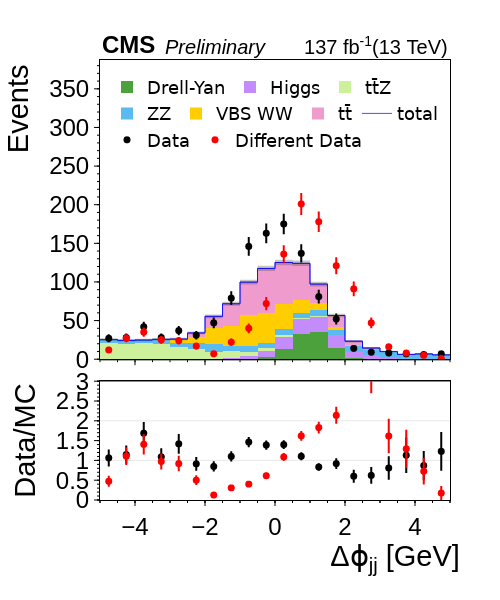
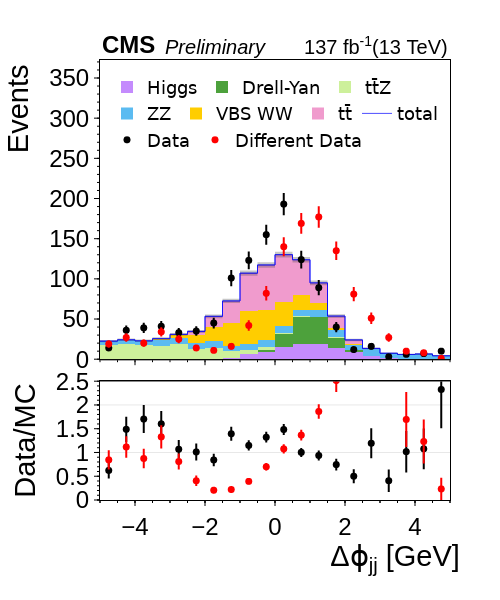
update

diff --git a/examples/example2/plot.html b/examples/example2/plot.html
@@ -9,7 +9,7 @@ window.PlotlyConfig = {MathJaxConfig: 'local'};
 <script src="https://cdn.plot.ly/plotly-2.3.0.min.js"></script>
 
     <div
-        id=fb561e72-df96-4e54-846e-26ceda32d834
+        id=6390c735-6d9c-46e0-8289-a98f86f4c5ef
         class="plotly-graph-div"
         style="height:600; width:500;">
     </div>
@@ -17,11 +17,11 @@ window.PlotlyConfig = {MathJaxConfig: 'local'};
         
         window.PLOTLYENV = window.PLOTLYENV || {}
         
-        if (document.getElementById('fb561e72-df96-4e54-846e-26ceda32d834')) {
+        if (document.getElementById('6390c735-6d9c-46e0-8289-a98f86f4c5ef')) {
     Plotly.newPlot(
-        'fb561e72-df96-4e54-846e-26ceda32d834',
-        [{"showlegend":false,"xaxis":"x","type":"scatter","name":"Data/MC","yaxis":"y"},{"showlegend":false,"xaxis":"x2","type":"scatter","name":"ratiopanel_minorticks","yaxis":"y2"},{"showlegend":false,"xaxis":"x3","type":"scatter","name":"ratiopanel_unityline","yaxis":"y3"},{"showlegend":false,"xaxis":"x4","type":"scatter","name":"mainpanel_majorticks","yaxis":"y4"},{"showlegend":false,"xaxis":"x5","type":"scatter","name":"mainpanel_minorticks","yaxis":"y5"},{"showlegend":false,"mode":"markers","xaxis":"x","name":"Data/MC","opacity":1,"error_y":{"array":[0.2151713611163748,0.22897007594166235,0.28136632556183927,0.216821208476119,0.2490280300390186,0.17106037752205802,0.1286493806981723,0.1304235568715328,0.12962645022452718,0.11594847980745544,0.1128040045976827,0.09938645958156812,0.09627057249957732,0.13312856862683686,0.16534025874485572,0.21322082126061137,0.2970189034761727,0.4501798282334663,0.3701115351124994,0.49184325898278064],"width":0},"yaxis":"y","marker":{"color":"black","size":7},"y":[1.0629921259842519,1.147540983606557,1.686746987951807,1.0894941634241246,1.417624521072797,0.9117647058823529,0.8468468468468469,1.1002785515320332,1.4629258517034067,1.3872340425531915,1.3977635782747606,1.1039484286865429,0.8324768756423433,0.9187279151943463,0.6008583690987124,0.6206896551724139,0.8080808080808081,1.129032258064516,0.8695652173913043,1.2280701754385965],"type":"scatter","x":[-4.75,-4.25,-3.75,-3.25,-2.75,-2.25,-1.75,-1.25,-0.75,-0.25,0.25,0.75,1.25,1.75,2.25,2.75,3.25,3.75,4.25,4.75]},{"showlegend":false,"mode":"markers","xaxis":"x","name":"Data/MC","opacity":1,"error_y":{"array":[0.13956639679750474,0.224430454005735,0.2537430592073422,0.2037956329690082,0.19614050532324623,0.1242625304369271,0.04797088195176685,0.0663193916729784,0.06462980721895491,0.07439481618336331,0.09807485934014162,0.12314675904925948,0.14913459617234193,0.21411466163865028,0.48279117138693267,0.5440609305189099,0.4354678725137126,0.48473734438510363,0.33560407531836417,0.17697084039969282],"width":0},"yaxis":"y","marker":{"color":"red","size":7},"y":[0.4724409448818897,1.1065573770491801,1.4056224899598393,0.9727626459143969,0.9195402298850575,0.5,0.12612612612612611,0.3064066852367687,0.4008016032064128,0.6127659574468085,1.086261980830671,1.619661563255439,1.8293936279547791,2.137809187279152,3.9055793991416308,3.241379310344828,1.6161616161616161,1.2903225806451613,0.7246376811594203,0.17543859649122806],"type":"scatter","x":[-4.75,-4.25,-3.75,-3.25,-2.75,-2.25,-1.75,-1.25,-0.75,-0.25,0.25,0.75,1.25,1.75,2.25,2.75,3.25,3.75,4.25,4.75]},{"x":[-4.75,-4.25,-3.75,-3.25,-2.75,-2.25,-1.75,-1.25,-0.75,-0.25,0.25,0.75,1.25,1.75,2.25,2.75,3.25,3.75,4.25,4.75],"xaxis":"x4","y":[0.0,0.0,0.0,0.0,0.0,0.0,0.0,0.0,0.1,3.1,13.700000000000001,32.1,34.6,14.9,1.4000000000000001,0.1,0.0,0.0,0.0,0.0,0.0],"type":"bar","name":"Drell-Yan","opacity":1.0,"yaxis":"y4","legendgroup":1,"marker":{"color":"rgba(77 , 161 , 60 , 1)"}},{"x":[-4.75,-4.25,-3.75,-3.25,-2.75,-2.25,-1.75,-1.25,-0.75,-0.25,0.25,0.75,1.25,1.75,2.25,2.75,3.25,3.75,4.25,4.75],"xaxis":"x4","y":[0.0,0.0,0.0,0.1,0.0,0.1,0.2,1.6,4.6000000000000005,7.7,15.200000000000001,19.400000000000002,20.1,16.0,7.7,5.2,1.6,0.30000000000000004,0.2,0.0,0.0],"type":"bar","name":"Higgs","opacity":1.0,"yaxis":"y4","legendgroup":2,"marker":{"color":"rgba(196 , 139 , 253 , 1)"}},{"x":[-4.75,-4.25,-3.75,-3.25,-2.75,-2.25,-1.75,-1.25,-0.75,-0.25,0.25,0.75,1.25,1.75,2.25,2.75,3.25,3.75,4.25,4.75],"xaxis":"x4","y":[20.8,19.400000000000002,20.700000000000003,19.1,16.1,13.5,9.1,8.4,4.9,3.8000000000000003,2.1,1.2000000000000002,0.6000000000000001,0.1,0.1,0.1,0.0,0.1,0.0,0.0,0.0],"type":"bar","name":"tt̄Z","opacity":1.0,"yaxis":"y4","legendgroup":3,"marker":{"color":"rgba(205 , 240 , 155 , 1)"}},{"x":[-4.75,-4.25,-3.75,-3.25,-2.75,-2.25,-1.75,-1.25,-0.75,-0.25,0.25,0.75,1.25,1.75,2.25,2.75,3.25,3.75,4.25,4.75],"xaxis":"x4","y":[4.6000000000000005,4.9,3.6,5.2,5.300000000000001,7.5,11.0,6.800000000000001,7.9,6.2,8.1,7.2,8.9,6.2,8.4,7.0,7.9,5.6000000000000005,6.7,5.7,5.7],"type":"bar","name":"ZZ","opacity":1.0,"yaxis":"y4","legendgroup":4,"marker":{"color":"rgba(91 , 187 , 241 , 1)"}},{"x":[-4.75,-4.25,-3.75,-3.25,-2.75,-2.25,-1.75,-1.25,-0.75,-0.25,0.25,0.75,1.25,1.75,2.25,2.75,3.25,3.75,4.25,4.75],"xaxis":"x4","y":[0.0,0.1,0.2,1.0,3.2,7.9,19.900000000000002,26.700000000000003,39.5,38.6,32.4,17.0,8.1,4.4,0.8,0.1,0.1,0.0,0.0,0.0,0.0],"type":"bar","name":"VBS WW","opacity":1.0,"yaxis":"y4","legendgroup":5,"marker":{"color":"rgba(255, 205, 0, 1)"}},{"x":[-4.75,-4.25,-3.75,-3.25,-2.75,-2.25,-1.75,-1.25,-0.75,-0.25,0.25,0.75,1.25,1.75,2.25,2.75,3.25,3.75,4.25,4.75],"xaxis":"x4","y":[0.0,0.0,0.4,0.30000000000000004,1.5,5.0,15.3,28.3,42.800000000000004,58.1,53.7,47.2,25.0,15.0,4.9,2.0,0.30000000000000004,0.2,0.0,0.0,0.0],"type":"bar","name":"tt̄","opacity":1.0,"yaxis":"y4","legendgroup":6,"marker":{"color":"rgba(240 , 155 , 205 , 1)"}},{"showlegend":false,"mode":"lines","xaxis":"x4","fillcolor":"blue","name":"total","fill":"","opacity":0.7,"yaxis":"y4","marker":{"size":0},"line":{"color":"blue","shape":"hv","width":1},"y":[25.400000000000002,24.400000000000006,24.900000000000002,25.7,26.1,34.0,55.5,71.80000000000001,99.80000000000001,117.5,125.19999999999999,124.10000000000002,97.3,56.6,23.3,14.499999999999998,9.9,6.2,6.9,5.7,5.7],"type":"scatter","x":[-5.0,-4.5,-4.0,-3.5,-3.0,-2.5,-2.0,-1.5,-1.0,-0.5,0.0,0.5,1.0,1.5,2.0,2.5,3.0,3.5,4.0,4.5,5.0]},{"showlegend":false,"mode":"lines","line":{"shape":"hv","width":0},"xaxis":"x4","x":[-5.0,-4.5,-4.0,-3.5,-3.0,-2.5,-2.0,-1.5,-1.0,-0.5,0.0,0.5,1.0,1.5,2.0,2.5,3.0,3.5,4.0,4.5,5.0],"y":[26.993737745050925,25.962049935181337,26.477973383805953,27.30312195418814,27.715549442140354,35.843908891458575,57.85584379787795,74.47955220139487,102.95911379978628,120.92782730020052,128.73836120259082,127.62278299076173,100.41929479209644,58.97907545067407,24.826433752247375,15.704159457879229,10.89498743710662,6.987400787401182,7.730662386291808,6.454983443527075,6.454983443527075],"type":"scatter","name":"total +1σ","yaxis":"y4","marker":{"color":"#444"}},{"showlegend":false,"mode":"lines","xaxis":"x4","fillcolor":"rgba(68, 68, 68, 0.3)","name":"total -1σ","fill":"tonexty","yaxis":"y4","marker":{"color":"#444"},"line":{"shape":"hv","width":0},"y":[23.80626225494908,22.837950064818674,23.32202661619405,24.09687804581186,24.48445055785965,32.156091108541425,53.14415620212205,69.12044779860516,96.64088620021374,114.07217269979948,121.66163879740917,120.57721700923831,94.18070520790356,54.220924549325936,21.773566247752626,13.295840542120768,8.905012562893381,5.412599212598819,6.069337613708193,4.945016556472925,4.945016556472925],"type":"scatter","x":[-5.0,-4.5,-4.0,-3.5,-3.0,-2.5,-2.0,-1.5,-1.0,-0.5,0.0,0.5,1.0,1.5,2.0,2.5,3.0,3.5,4.0,4.5,5.0]},{"showlegend":true,"mode":"lines","xaxis":"x4","fillcolor":"blue","name":"total","fill":"","opacity":0.7,"yaxis":"y4","legendgroup":-100,"marker":{"size":0},"line":{"color":"blue","width":1,"shape":"hv"},"y":[25.400000000000002,24.400000000000006,24.900000000000002,25.7,26.1,34.0,55.5,71.80000000000001,99.80000000000001,117.5,125.19999999999999,124.10000000000002,97.3,56.6,23.3,14.499999999999998,9.9,6.2,6.9,5.7,5.7],"type":"scatter","x":[-5.0,-4.5,-4.0,-3.5,-3.0,-2.5,-2.0,-1.5,-1.0,-0.5,0.0,0.5,1.0,1.5,2.0,2.5,3.0,3.5,4.0,4.5,5.0]},{"mode":"markers","xaxis":"x4","name":"Data","opacity":1,"error_y":{"array":[5.196152422706632,5.291502622129181,6.48074069840786,5.291502622129181,6.082762530298219,5.5677643628300215,6.855654600401044,8.888194417315589,12.083045973594572,12.767145334803704,13.228756555322953,11.704699910719626,9.0,7.211102550927978,3.7416573867739413,3.0,2.8284271247461903,2.6457513110645907,2.449489742783178,2.6457513110645907],"width":0},"yaxis":"y4","legendgroup":-1,"marker":{"color":"black","size":7},"y":[27.0,28.0,42.0,28.0,37.0,31.0,47.0,79.0,146.0,163.0,175.0,137.0,81.0,52.0,14.0,9.0,8.0,7.0,6.0,7.0],"type":"scatter","x":[-4.75,-4.25,-3.75,-3.25,-2.75,-2.25,-1.75,-1.25,-0.75,-0.25,0.25,0.75,1.25,1.75,2.25,2.75,3.25,3.75,4.25,4.75]},{"mode":"markers","xaxis":"x4","name":"Different Data","opacity":1,"error_y":{"array":[3.4641016151377544,5.196152422706632,5.916079783099616,5.0,4.898979485566356,4.123105625617661,2.6457513110645907,4.69041575982343,6.324555320336759,8.48528137423857,11.661903789690601,14.177446878757825,13.341664064126334,11.0,9.539392014169456,6.855654600401044,4.0,2.8284271247461903,2.23606797749979,1.0],"width":0},"yaxis":"y4","legendgroup":-2,"marker":{"color":"red","size":7},"y":[12.0,27.0,35.0,25.0,24.0,17.0,7.0,22.0,40.0,72.0,136.0,201.0,178.0,121.0,91.0,47.0,16.0,8.0,5.0,1.0],"type":"scatter","x":[-4.75,-4.25,-3.75,-3.25,-2.75,-2.25,-1.75,-1.25,-0.75,-0.25,0.25,0.75,1.25,1.75,2.25,2.75,3.25,3.75,4.25,4.75]}],
-        {"xaxis":{"ticklen":5,"ticks":"outside","range":[-5.0,5.0],"domain":[0,1],"nticks":10,"color":"black","showgrid":false,"zeroline":false,"title":{"standoff":1,"text":"&nbsp;&nbsp;&nbsp;&nbsp;&nbsp;&nbsp;&nbsp;&nbsp;&nbsp;&nbsp;&nbsp;&nbsp;&nbsp;&nbsp;&nbsp;&nbsp;&nbsp;&nbsp;&nbsp;&nbsp;&nbsp;&nbsp;&nbsp;&nbsp;&nbsp;&nbsp;&nbsp;&nbsp;&nbsp;&nbsp;Δϕ<sub>jj</sub> [GeV]"},"linewidth":1,"mirror":true},"bargap":0,"template":"simple_white","height":600,"yaxis4":{"ticklen":5,"ticks":"outside","range":[0.0,387.31940438176406],"domain":[0.32,1.0],"nticks":8,"color":"black","showgrid":false,"zeroline":false,"title":{"standoff":1,"text":"&nbsp;&nbsp;&nbsp;&nbsp;&nbsp;&nbsp;&nbsp;&nbsp;&nbsp;&nbsp;&nbsp;&nbsp;&nbsp;&nbsp;&nbsp;&nbsp;&nbsp;&nbsp;&nbsp;&nbsp;&nbsp;&nbsp;&nbsp;&nbsp;&nbsp;Events"},"linewidth":1,"mirror":true,"anchor":"x4"},"yaxis":{"ticklen":5,"ticks":"outside","range":[0.0,3.0],"domain":[0.0,0.27],"nticks":8,"color":"black","showgrid":false,"zeroline":false,"title":{"standoff":1,"text":"Data/MC"},"linewidth":1,"mirror":true},"yaxis2":{"showticklabels":false,"ticklen":2,"overlaying":"y","ticks":"outside","range":[0.0,3.0],"domain":[0.0,0.27],"nticks":32,"color":"black","showgrid":false,"zeroline":false,"linewidth":1,"mirror":true,"matches":"y"},"xaxis3":{"showticklabels":false,"ticklen":2,"overlaying":"x","ticks":"outside","range":[-5.0,5.0],"domain":[0,1],"nticks":40,"color":"black","showgrid":false,"zeroline":false,"linewidth":1,"mirror":true,"matches":"x"},"legend":{"yanchor":"top","xanchor":"center","itemwidth":0,"y":0.98,"font":{"color":"black","family":"Arial","size":18},"bgcolor":"rgba(255,255,255,0.3)","tracegroupgap":0,"orientation":"h","traceorder":"grouped","x":0.5},"barmode":"stack","autosize":false,"yaxis3":{"showticklabels":false,"ticklen":2,"overlaying":"y","ticks":"outside","range":[0.0,3.0],"domain":[0.0,0.27],"nticks":4,"color":"black","showgrid":true,"zeroline":false,"linewidth":1,"mirror":true,"matches":"y"},"yaxis5":{"showticklabels":false,"ticklen":2,"overlaying":"y4","ticks":"outside","range":[0.0,3.0],"domain":[0.32,1.0],"nticks":40,"color":"black","showgrid":false,"zeroline":false,"linewidth":1,"mirror":true,"matches":"y4","anchor":"x5"},"xaxis4":{"showticklabels":false,"ticklen":5,"ticks":"outside","range":[-5.0,5.0],"domain":[0,1],"nticks":10,"color":"black","showgrid":false,"zeroline":false,"linewidth":1,"mirror":true,"matches":"x","anchor":"y4"},"font":{"family":"Arial","size":24},"annotations":[{"yanchor":"bottom","xanchor":"left","y":1.0,"font":{"color":"black","size":24},"yref":"paper","showarrow":false,"text":"<b>CMS</b>","xref":"paper","x":0.0},{"yanchor":"bottom","xanchor":"left","y":1.0,"font":{"color":"black","size":20},"yref":"paper","showarrow":false,"text":"<i>Preliminary</i>","xref":"paper","x":0.18},{"yanchor":"bottom","xanchor":"right","y":1.0,"font":{"color":"black","size":20},"yref":"paper","showarrow":false,"text":"137 fb<sup>-1</sup>(13 TeV)","xref":"paper","x":1.0}],"xaxis2":{"showticklabels":false,"ticklen":2,"overlaying":"x","ticks":"outside","range":[-5.0,5.0],"domain":[0,1],"nticks":40,"color":"black","showgrid":false,"zeroline":false,"linewidth":1,"mirror":true,"matches":"x"},"margin":{"l":100,"b":100,"r":50,"t":60},"xaxis5":{"showticklabels":false,"ticklen":2,"overlaying":"x4","ticks":"outside","range":[-5.0,5.0],"domain":[0,1],"nticks":50,"color":"black","showgrid":false,"zeroline":false,"linewidth":1,"mirror":true,"matches":"x","anchor":"y4"},"width":500},
+        '6390c735-6d9c-46e0-8289-a98f86f4c5ef',
+        [{"showlegend":false,"xaxis":"x","type":"scatter","name":"Data/MC","yaxis":"y"},{"showlegend":false,"xaxis":"x2","type":"scatter","name":"ratiopanel_minorticks","yaxis":"y2"},{"showlegend":false,"xaxis":"x3","type":"scatter","name":"ratiopanel_unityline","yaxis":"y3"},{"showlegend":false,"xaxis":"x4","type":"scatter","name":"mainpanel_majorticks","yaxis":"y4"},{"showlegend":false,"xaxis":"x5","type":"scatter","name":"mainpanel_minorticks","yaxis":"y5"},{"showlegend":false,"mode":"markers","xaxis":"x","name":"Data/MC","opacity":1,"error_y":{"array":[0.1713914650545727,0.2657361259778722,0.2950166159373807,0.269407824576409,0.19558354061873937,0.17942475497407118,0.1308078035232957,0.14795978810826863,0.10933784574989276,0.1129322207607206,0.11442950213636432,0.09434490018558453,0.10385259889724009,0.12208336005258448,0.1479019945774904,0.3158263951605663,0.23875826281968826,0.4357669472045105,0.42839582851592967,0.8164606369110149],"width":0},"yaxis":"y","marker":{"color":"black","size":7},"y":[0.6222222222222222,1.4876033057851241,1.7030567685589517,1.6015625,1.0679611650485437,1.0115606936416184,0.8426966292134831,1.393103448275862,1.1484593837535013,1.3213981244671782,1.4834742505764797,1.001615508885299,0.9368421052631578,0.7448789571694601,0.5,1.1940298507462686,0.4054054054054054,1.0169491525423728,1.0769230769230769,2.3255813953488373],"type":"scatter","x":[-4.75,-4.25,-3.75,-3.25,-2.75,-2.25,-1.75,-1.25,-0.75,-0.25,0.25,0.75,1.25,1.75,2.25,2.75,3.25,3.75,4.25,4.75]},{"showlegend":false,"mode":"markers","xaxis":"x","name":"Data/MC","opacity":1,"error_y":{"array":[0.20174274999169425,0.22637839323742298,0.2036392307757972,0.2424256169395783,0.1682308032700455,0.11030650388375651,0.06274551788082144,0.055777890510726215,0.06168620049804663,0.07985125954387268,0.09571501316305488,0.11194622008139439,0.15253277917976787,0.24204164295846592,0.43368875648326416,0.6262009969480363,0.8203420796671325,0.5796242245791391,0.4611438154966174,0.235246762259941],"width":0},"yaxis":"y","marker":{"color":"red","size":7},"y":[0.8444444444444444,1.115702479338843,0.8733624454148471,1.328125,0.8090614886731392,0.40462427745664736,0.20599250936329586,0.2206896551724138,0.39215686274509803,0.6990622335890878,1.0760953112990008,1.3651050080775446,1.863157894736842,2.5139664804469275,3.375,3.8059701492537306,3.6486486486486487,1.694915254237288,1.2307692307692308,0.23255813953488372],"type":"scatter","x":[-4.75,-4.25,-3.75,-3.25,-2.75,-2.25,-1.75,-1.25,-0.75,-0.25,0.25,0.75,1.25,1.75,2.25,2.75,3.25,3.75,4.25,4.75]},{"x":[-4.75,-4.25,-3.75,-3.25,-2.75,-2.25,-1.75,-1.25,-0.75,-0.25,0.25,0.75,1.25,1.75,2.25,2.75,3.25,3.75,4.25,4.75],"xaxis":"x4","y":[0.0,0.0,0.0,0.0,0.0,0.1,0.30000000000000004,1.9000000000000001,6.2,9.3,15.700000000000001,18.5,19.200000000000003,13.9,9.0,3.7,1.2000000000000002,0.6000000000000001,0.4,0.0,0.0],"type":"bar","name":"Higgs","opacity":1.0,"yaxis":"y4","legendgroup":1,"marker":{"color":"rgba(196 , 139 , 253 , 1)"}},{"x":[-4.75,-4.25,-3.75,-3.25,-2.75,-2.25,-1.75,-1.25,-0.75,-0.25,0.25,0.75,1.25,1.75,2.25,2.75,3.25,3.75,4.25,4.75],"xaxis":"x4","y":[0.0,0.0,0.0,0.0,0.0,0.0,0.0,0.0,0.0,2.1,15.3,34.1,33.300000000000004,13.0,2.0,0.2,0.0,0.0,0.0,0.0,0.0],"type":"bar","name":"Drell-Yan","opacity":1.0,"yaxis":"y4","legendgroup":2,"marker":{"color":"rgba(77 , 161 , 60 , 1)"}},{"x":[-4.75,-4.25,-3.75,-3.25,-2.75,-2.25,-1.75,-1.25,-0.75,-0.25,0.25,0.75,1.25,1.75,2.25,2.75,3.25,3.75,4.25,4.75],"xaxis":"x4","y":[17.8,19.0,18.1,16.3,18.5,13.0,13.4,7.9,5.6000000000000005,3.8000000000000003,2.0,1.3,0.4,0.30000000000000004,0.2,0.0,0.0,0.0,0.1,0.0,0.0],"type":"bar","name":"tt̄Z","opacity":1.0,"yaxis":"y4","legendgroup":3,"marker":{"color":"rgba(205 , 240 , 155 , 1)"}},{"x":[-4.75,-4.25,-3.75,-3.25,-2.75,-2.25,-1.75,-1.25,-0.75,-0.25,0.25,0.75,1.25,1.75,2.25,2.75,3.25,3.75,4.25,4.75],"xaxis":"x4","y":[4.7,5.2,4.7,7.6000000000000005,7.800000000000001,7.300000000000001,8.6,6.2,7.0,8.5,8.200000000000001,6.800000000000001,8.700000000000001,9.600000000000001,6.7,8.3,6.0,5.2,6.0,4.3,4.3],"type":"bar","name":"ZZ","opacity":1.0,"yaxis":"y4","legendgroup":4,"marker":{"color":"rgba(91 , 187 , 241 , 1)"}},{"x":[-4.75,-4.25,-3.75,-3.25,-2.75,-2.25,-1.75,-1.25,-0.75,-0.25,0.25,0.75,1.25,1.75,2.25,2.75,3.25,3.75,4.25,4.75],"xaxis":"x4","y":[0.0,0.0,0.1,1.3,3.4000000000000004,9.200000000000001,17.5,29.0,41.0,37.5,30.400000000000002,18.6,8.0,2.5,1.2000000000000002,0.30000000000000004,0.0,0.0,0.0,0.0,0.0],"type":"bar","name":"VBS WW","opacity":1.0,"yaxis":"y4","legendgroup":5,"marker":{"color":"rgba(255, 205, 0, 1)"}},{"x":[-4.75,-4.25,-3.75,-3.25,-2.75,-2.25,-1.75,-1.25,-0.75,-0.25,0.25,0.75,1.25,1.75,2.25,2.75,3.25,3.75,4.25,4.75],"xaxis":"x4","y":[0.0,0.0,0.0,0.4,1.2000000000000002,5.0,13.600000000000001,27.5,47.300000000000004,56.1,58.5,44.5,25.400000000000002,14.4,4.9,0.9,0.2,0.1,0.0,0.0,0.0],"type":"bar","name":"tt̄","opacity":1.0,"yaxis":"y4","legendgroup":6,"marker":{"color":"rgba(240 , 155 , 205 , 1)"}},{"showlegend":false,"mode":"lines","xaxis":"x4","fillcolor":"blue","name":"total","fill":"","opacity":0.7,"yaxis":"y4","marker":{"size":0},"line":{"color":"blue","shape":"hv","width":1},"y":[22.5,24.2,22.900000000000002,25.6,30.9,34.6,53.400000000000006,72.5,107.10000000000001,117.3,130.1,123.79999999999998,95.00000000000001,53.699999999999996,24.0,13.400000000000002,7.4,5.9,6.5,4.3,4.3],"type":"scatter","x":[-5.0,-4.5,-4.0,-3.5,-3.0,-2.5,-2.0,-1.5,-1.0,-0.5,0.0,0.5,1.0,1.5,2.0,2.5,3.0,3.5,4.0,4.5,5.0]},{"showlegend":false,"mode":"lines","line":{"shape":"hv","width":0},"xaxis":"x4","x":[-5.0,-4.5,-4.0,-3.5,-3.0,-2.5,-2.0,-1.5,-1.0,-0.5,0.0,0.5,1.0,1.5,2.0,2.5,3.0,3.5,4.0,4.5,5.0],"y":[24.0,25.755634918610404,24.413274595042157,27.200000000000003,32.65783958312469,36.46010752377383,55.71084400165827,75.19258240356726,110.37261363439072,120.72490875790874,133.70693775937428,127.31852241715183,98.0822070014845,56.01732604525129,25.549193338482965,14.557583690279024,8.260232526704263,6.668114574786861,7.306225774829855,4.9557438524302,4.9557438524302],"type":"scatter","name":"total +1σ","yaxis":"y4","marker":{"color":"#444"}},{"showlegend":false,"mode":"lines","xaxis":"x4","fillcolor":"rgba(68, 68, 68, 0.3)","name":"total -1σ","fill":"tonexty","yaxis":"y4","marker":{"color":"#444"},"line":{"shape":"hv","width":0},"y":[21.0,22.644365081389594,21.386725404957847,24.0,29.142160416875303,32.739892476226174,51.08915599834174,69.80741759643274,103.8273863656093,113.87509124209126,126.4930622406257,120.28147758284814,91.91779299851552,51.382673954748704,22.450806661517035,12.24241630972098,6.539767473295738,5.13188542521314,5.693774225170145,3.6442561475697994,3.6442561475697994],"type":"scatter","x":[-5.0,-4.5,-4.0,-3.5,-3.0,-2.5,-2.0,-1.5,-1.0,-0.5,0.0,0.5,1.0,1.5,2.0,2.5,3.0,3.5,4.0,4.5,5.0]},{"showlegend":true,"mode":"lines","xaxis":"x4","fillcolor":"blue","name":"total","fill":"","opacity":0.7,"yaxis":"y4","legendgroup":-100,"marker":{"size":0},"line":{"color":"blue","width":1,"shape":"hv"},"y":[22.5,24.2,22.900000000000002,25.6,30.9,34.6,53.400000000000006,72.5,107.10000000000001,117.3,130.1,123.79999999999998,95.00000000000001,53.699999999999996,24.0,13.400000000000002,7.4,5.9,6.5,4.3,4.3],"type":"scatter","x":[-5.0,-4.5,-4.0,-3.5,-3.0,-2.5,-2.0,-1.5,-1.0,-0.5,0.0,0.5,1.0,1.5,2.0,2.5,3.0,3.5,4.0,4.5,5.0]},{"mode":"markers","xaxis":"x4","name":"Data","opacity":1,"error_y":{"array":[3.7416573867739413,6.0,6.244997998398398,6.4031242374328485,5.744562646538029,5.916079783099616,6.708203932499369,10.04987562112089,11.090536506409418,12.449899597988733,13.892443989449804,11.135528725660043,9.433981132056603,6.324555320336759,3.4641016151377544,4.0,1.7320508075688772,2.449489742783178,2.6457513110645907,3.1622776601683795],"width":0},"yaxis":"y4","legendgroup":-1,"marker":{"color":"black","size":7},"y":[14.0,36.0,39.0,41.0,33.0,35.0,45.0,101.0,123.0,155.0,193.0,124.0,89.0,40.0,12.0,16.0,3.0,6.0,7.0,10.0],"type":"scatter","x":[-4.75,-4.25,-3.75,-3.25,-2.75,-2.25,-1.75,-1.25,-0.75,-0.25,0.25,0.75,1.25,1.75,2.25,2.75,3.25,3.75,4.25,4.75]},{"mode":"markers","xaxis":"x4","name":"Different Data","opacity":1,"error_y":{"array":[4.358898943540674,5.196152422706632,4.47213595499958,5.830951894845301,5.0,3.7416573867739413,3.3166247903554,4.0,6.48074069840786,9.055385138137417,11.832159566199232,13.0,13.30413469565007,11.61895003862225,9.0,7.14142842854285,5.196152422706632,3.1622776601683795,2.8284271247461903,1.0],"width":0},"yaxis":"y4","legendgroup":-2,"marker":{"color":"red","size":7},"y":[19.0,27.0,20.0,34.0,25.0,14.0,11.0,16.0,42.0,82.0,140.0,169.0,177.0,135.0,81.0,51.0,27.0,10.0,8.0,1.0],"type":"scatter","x":[-4.75,-4.25,-3.75,-3.25,-2.75,-2.25,-1.75,-1.25,-0.75,-0.25,0.25,0.75,1.25,1.75,2.25,2.75,3.25,3.75,4.25,4.75]}],
+        {"xaxis":{"ticklen":5,"ticks":"outside","range":[-5.0,5.0],"domain":[0,1],"nticks":10,"color":"black","showgrid":false,"zeroline":false,"title":{"standoff":1,"text":"&nbsp;&nbsp;&nbsp;&nbsp;&nbsp;&nbsp;&nbsp;&nbsp;&nbsp;&nbsp;&nbsp;&nbsp;&nbsp;&nbsp;&nbsp;&nbsp;&nbsp;&nbsp;&nbsp;&nbsp;&nbsp;&nbsp;&nbsp;&nbsp;&nbsp;&nbsp;&nbsp;&nbsp;&nbsp;&nbsp;Δϕ<sub>jj</sub> [GeV]"},"linewidth":1,"mirror":true},"bargap":0,"template":"simple_white","height":600,"yaxis4":{"ticklen":5,"ticks":"outside","range":[0.0,372.4063991810097],"domain":[0.32,1.0],"nticks":8,"color":"black","showgrid":false,"zeroline":false,"title":{"standoff":1,"text":"&nbsp;&nbsp;&nbsp;&nbsp;&nbsp;&nbsp;&nbsp;&nbsp;&nbsp;&nbsp;&nbsp;&nbsp;&nbsp;&nbsp;&nbsp;&nbsp;&nbsp;&nbsp;&nbsp;&nbsp;&nbsp;&nbsp;&nbsp;&nbsp;&nbsp;Events"},"linewidth":1,"mirror":true,"anchor":"x4"},"yaxis":{"ticklen":5,"ticks":"outside","range":[0.0,2.5],"domain":[0.0,0.27],"nticks":8,"color":"black","showgrid":false,"zeroline":false,"title":{"standoff":1,"text":"Data/MC"},"linewidth":1,"mirror":true},"yaxis2":{"showticklabels":false,"ticklen":2,"overlaying":"y","ticks":"outside","range":[0.0,2.5],"domain":[0.0,0.27],"nticks":32,"color":"black","showgrid":false,"zeroline":false,"linewidth":1,"mirror":true,"matches":"y"},"xaxis3":{"showticklabels":false,"ticklen":2,"overlaying":"x","ticks":"outside","range":[-5.0,5.0],"domain":[0,1],"nticks":40,"color":"black","showgrid":false,"zeroline":false,"linewidth":1,"mirror":true,"matches":"x"},"legend":{"yanchor":"top","xanchor":"center","itemwidth":0,"y":0.98,"font":{"color":"black","family":"Arial","size":18},"bgcolor":"rgba(255,255,255,0.3)","tracegroupgap":0,"orientation":"h","traceorder":"grouped","x":0.5},"barmode":"stack","autosize":false,"yaxis3":{"showticklabels":false,"ticklen":2,"overlaying":"y","ticks":"outside","range":[0.0,2.5],"domain":[0.0,0.27],"nticks":4,"color":"black","showgrid":true,"zeroline":false,"linewidth":1,"mirror":true,"matches":"y"},"yaxis5":{"showticklabels":false,"ticklen":2,"overlaying":"y4","ticks":"outside","range":[0.0,2.5],"domain":[0.32,1.0],"nticks":40,"color":"black","showgrid":false,"zeroline":false,"linewidth":1,"mirror":true,"matches":"y4","anchor":"x5"},"xaxis4":{"showticklabels":false,"ticklen":5,"ticks":"outside","range":[-5.0,5.0],"domain":[0,1],"nticks":10,"color":"black","showgrid":false,"zeroline":false,"linewidth":1,"mirror":true,"matches":"x","anchor":"y4"},"font":{"family":"Arial","size":24},"annotations":[{"yanchor":"bottom","xanchor":"left","y":1.0,"font":{"color":"black","size":24},"yref":"paper","showarrow":false,"text":"<b>CMS</b>","xref":"paper","x":0.0},{"yanchor":"bottom","xanchor":"left","y":1.0,"font":{"color":"black","size":20},"yref":"paper","showarrow":false,"text":"<i>Preliminary</i>","xref":"paper","x":0.18},{"yanchor":"bottom","xanchor":"right","y":1.0,"font":{"color":"black","size":20},"yref":"paper","showarrow":false,"text":"137 fb<sup>-1</sup>(13 TeV)","xref":"paper","x":1.0}],"xaxis2":{"showticklabels":false,"ticklen":2,"overlaying":"x","ticks":"outside","range":[-5.0,5.0],"domain":[0,1],"nticks":40,"color":"black","showgrid":false,"zeroline":false,"linewidth":1,"mirror":true,"matches":"x"},"margin":{"l":100,"b":100,"r":50,"t":60},"xaxis5":{"showticklabels":false,"ticklen":2,"overlaying":"x4","ticks":"outside","range":[-5.0,5.0],"domain":[0,1],"nticks":50,"color":"black","showgrid":false,"zeroline":false,"linewidth":1,"mirror":true,"matches":"x","anchor":"y4"},"width":500},
         {"editable":false,"responsive":true,"staticPlot":false,"scrollZoom":true},
     )
 }
